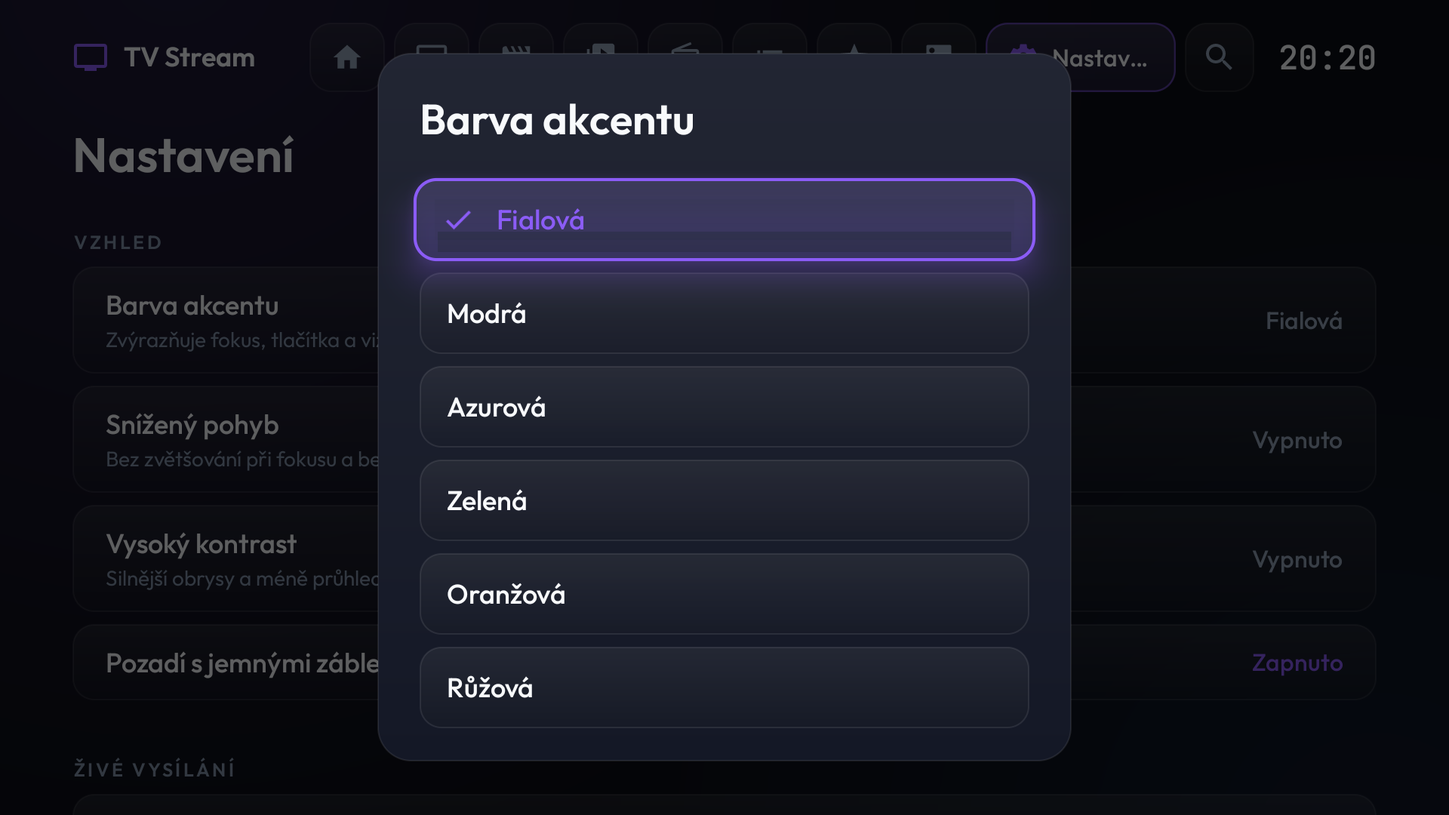
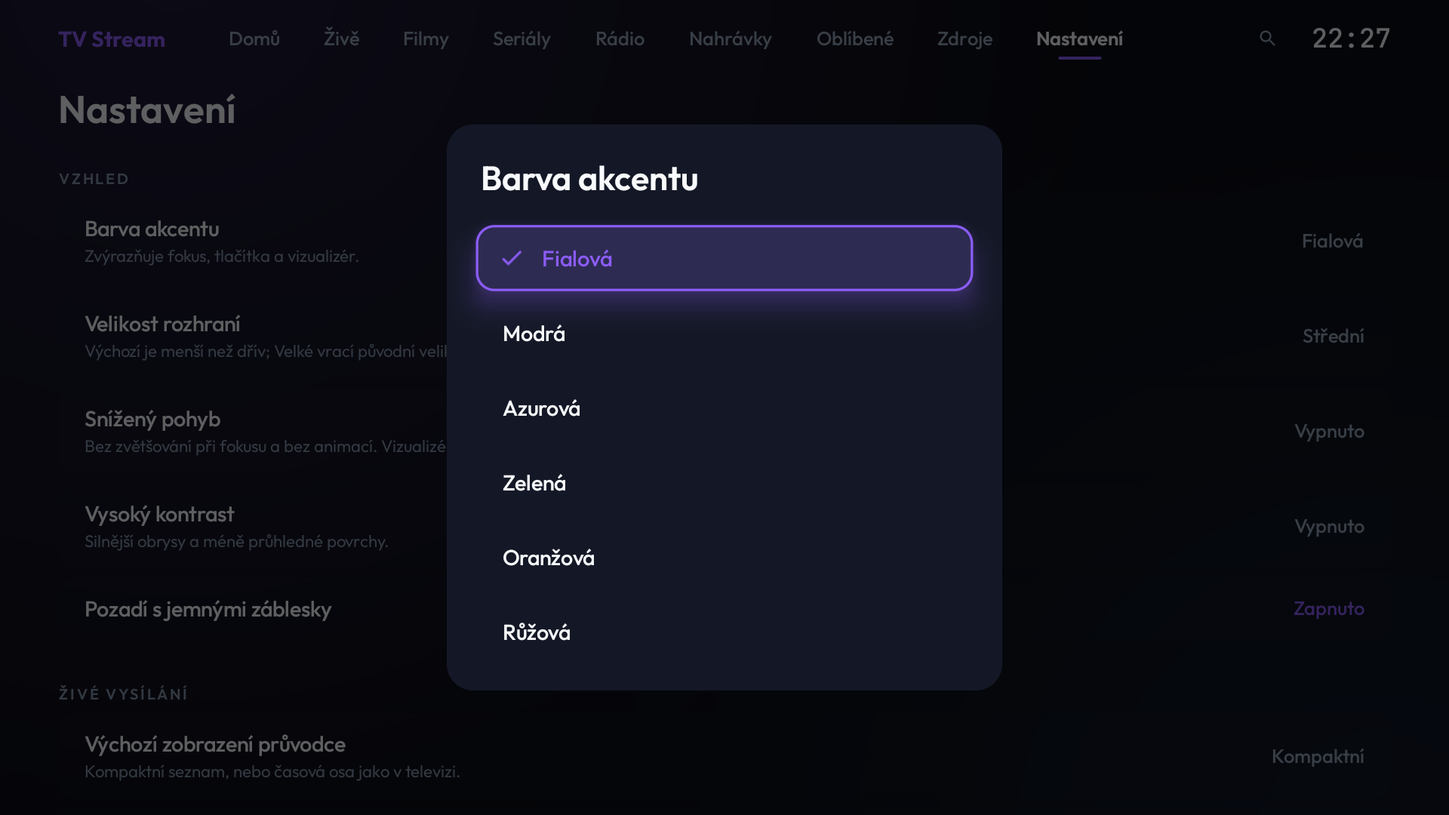
Minimalistický OTT redesign TV Stream, aktualizované docs a README

diff --git a/apps/stream/src/main/java/cz/plain/tvstream/MainActivity.kt b/apps/stream/src/main/java/cz/plain/tvstream/MainActivity.kt
@@ -67,13 +67,15 @@ class MainActivity : Activity() {
 
     private val tick = object : Runnable { override fun run() { clock.text = hhmm(System.currentTimeMillis()); main.postDelayed(this, 20_000) } }
 
+    override fun attachBaseContext(base: android.content.Context) { super.attachBaseContext(UiScale.wrap(base)) }
+
     override fun onCreate(savedInstanceState: Bundle?) {
         super.onCreate(savedInstanceState)
         Settings.init(this); UserData.init(this); Library.init(this); Playback.init(this)
 
         frame = FrameLayout(this).apply { background = AmbientBackground() }
         val column = LinearLayout(this).apply { orientation = LinearLayout.VERTICAL }
-        column.addView(buildBar(), LinearLayout.LayoutParams(MATCH_PARENT, dp(76)))
+        column.addView(buildBar(), LinearLayout.LayoutParams(MATCH_PARENT, dp(64)))
         content = FrameLayout(this).apply { clipChildren = false; clipToPadding = false }
         column.addView(content, LinearLayout.LayoutParams(MATCH_PARENT, 0, 1f))
         frame.addView(column, FrameLayout.LayoutParams(MATCH_PARENT, MATCH_PARENT))
@@ -132,11 +134,7 @@ class MainActivity : Activity() {
     private fun buildBar(): View {
         val bar = LinearLayout(this).apply { orientation = LinearLayout.HORIZONTAL; gravity = Gravity.CENTER_VERTICAL; setPadding(dp(Sp.XXXL), dp(Sp.S), dp(Sp.XXXL), dp(Sp.S)); clipChildren = false; clipToPadding = false }
         // značka aplikace
-        val mark = label(Typo.LABEL, Design.TEXT, 600).also { brand = it }.apply {
-            text = "TV Stream"; compoundDrawablePadding = dp(10)
-            setCompoundDrawablesRelativeWithIntrinsicBounds(R.drawable.ic_tv_w, 0, 0, 0)
-            compoundDrawableTintList = android.content.res.ColorStateList.valueOf(Design.accent)
-        }
+        val mark = label(Typo.LABEL, Design.accent, 700).also { brand = it }.apply { text = "TV Stream"; letterSpacing = 0.02f }
         bar.addView(mark)
         bar.addView(View(this), LinearLayout.LayoutParams(dp(36), 1))
         tabRow = LinearLayout(this).apply { orientation = LinearLayout.HORIZONTAL; gravity = Gravity.CENTER_VERTICAL; clipChildren = false; clipToPadding = false }
@@ -147,16 +145,16 @@ class MainActivity : Activity() {
             visibility = View.GONE; setPadding(dp(Sp.L), 0, dp(Sp.L), 0); gravity = Gravity.CENTER_VERTICAL; maxWidth = dp(190)
             compoundDrawablePadding = dp(Sp.S); setCompoundDrawablesRelativeWithIntrinsicBounds(R.drawable.ic_volume, 0, 0, 0)
             compoundDrawableTintList = android.content.res.ColorStateList.valueOf(Design.accent)
-            background = Design.glass(this@MainActivity, Design.R_CTRL); Design.focusable(this, Design.R_CTRL, Design.SCALE_CARD)
+            background = TabDrawable(this@MainActivity); Design.focusable(this, Design.R_CTRL, Design.SCALE_FIELD)
             setOnClickListener { startActivity(Intent(this@MainActivity, PlayerActivity::class.java)) }
         }
         bar.addView(miniPlayer, LinearLayout.LayoutParams(WRAP_CONTENT, dp(46)).apply { marginEnd = dp(14) })
         val search = icon(R.drawable.ic_search, 22, Design.TEXT2).apply {
-            setPadding(dp(11), dp(11), dp(11), dp(11)); background = Design.glass(this@MainActivity, Design.R_CTRL)
+            setPadding(dp(11), dp(11), dp(11), dp(11)); background = TabDrawable(this@MainActivity)
             Design.focusable(this, Design.R_CTRL); setOnClickListener { push(SearchScreen(this@MainActivity)) }
             describe("Hledat")
         }
-        bar.addView(search, LinearLayout.LayoutParams(dp(46), dp(46)).apply { marginEnd = dp(Sp.L) })
+        bar.addView(search, LinearLayout.LayoutParams(dp(40), dp(40)).apply { marginEnd = dp(Sp.L) })
         clock = label(Typo.TITLE, Design.TEXT, 500, mono = true)
         bar.addView(clock)
         return bar
@@ -172,7 +170,7 @@ class MainActivity : Activity() {
             for (t in visible) {
                 val v = t.view ?: makeTab(t).also { t.view = it }
                 (v.parent as? ViewGroup)?.removeView(v)
-                tabRow.addView(v, LinearLayout.LayoutParams(WRAP_CONTENT, dp(46)).apply { marginEnd = dp(Sp.XS) })
+                tabRow.addView(v, LinearLayout.LayoutParams(WRAP_CONTENT, dp(40)).apply { marginEnd = dp(Sp.XS) })
             }
             shownTabs = ids
             hadFocus?.view?.requestFocus()
@@ -186,17 +184,17 @@ class MainActivity : Activity() {
     }
 
     private fun makeTab(t: Tab): LinearLayout {
-        val ic = icon(t.icon, 22, Design.TEXT2)
-        val tx = label(Typo.BODY, Design.TEXT, 500).apply { visibility = View.GONE; setPadding(dp(Sp.S), 0, 0, 0) }
-        t.ic = ic; t.text = tx
+        // Jen text: aktivní karta je zvýrazněná a podtržená, zaostřená má jemné pozadí.
+        val tx = label(Typo.BODY, Design.TEXT2, 500).apply { text = t.label }
+        t.text = tx; t.ic = null
         val v = LinearLayout(this)
         v.apply {
-            orientation = LinearLayout.HORIZONTAL; gravity = Gravity.CENTER; setPadding(dp(Sp.M), 0, dp(Sp.M), 0)
-            background = Design.glass(this@MainActivity, Design.R_CTRL)
-            addView(ic); addView(tx); tx.text = t.label
+            orientation = LinearLayout.HORIZONTAL; gravity = Gravity.CENTER; setPadding(dp(Sp.L), 0, dp(Sp.L), 0)
+            background = TabDrawable(this@MainActivity)
+            addView(tx)
             describe(t.label)
             // Fokus na kartu přepne obsah (s krátkou prodlevou, ať rychlé procházení kartami nestaví obrazovky).
-            Design.focusable(this, Design.R_CTRL, Design.SCALE_CARD) { f ->
+            Design.focusable(this, Design.R_CTRL, Design.SCALE_FIELD) { f ->
                 styleTab(t, f)
                 if (f) {
                     switchRunnable?.let { main.removeCallbacks(it) }
@@ -215,9 +213,8 @@ class MainActivity : Activity() {
         val active = t.id == current && stack.isEmpty()
         t.view?.isActivated = active
         t.view?.describe(t.label, selected = active)
-        t.text?.visibility = if (active || focused) View.VISIBLE else View.GONE
-        t.text?.setTextColor(if (active) Design.TEXT else Design.TEXT2)
-        t.ic?.setColorFilter(if (active) Design.accent else if (focused) Design.TEXT else Design.TEXT2)
+        t.text?.setTextColor(if (active || focused) Design.TEXT else Design.TEXT2)
+        t.text?.typeface = Design.ui(this, if (active) 600 else 500)
     }
 
     /** Otevře Živě omezené na jeden zdroj. */
@@ -358,4 +355,36 @@ class MainActivity : Activity() {
             else -> tabs.firstOrNull { it.id == current }?.view?.requestFocus()   // z obsahu zpět na horní lištu
         }
     }
+}
+
+/** Podklad karty v horní liště: v klidu nic, aktivní karta je podtržená akcentem, zaostřená má jemné pozadí a akcentový rámeček. */
+class TabDrawable(ctx: android.content.Context) : android.graphics.drawable.Drawable() {
+    private val d = ctx.resources.displayMetrics.density
+    private val fill = android.graphics.Paint(android.graphics.Paint.ANTI_ALIAS_FLAG)
+    private val line = android.graphics.Paint(android.graphics.Paint.ANTI_ALIAS_FLAG).apply { style = android.graphics.Paint.Style.STROKE }
+    private val rect = android.graphics.RectF()
+    private var focused = false
+    private var active = false
+    override fun isStateful() = true
+    override fun onStateChange(state: IntArray): Boolean {
+        var f = false; var a = false
+        for (s in state) when (s) { android.R.attr.state_focused -> f = true; android.R.attr.state_activated, android.R.attr.state_selected -> a = true }
+        if (f == focused && a == active) return false
+        focused = f; active = a; invalidateSelf(); return true
+    }
+    override fun draw(c: android.graphics.Canvas) {
+        val r = Design.R_CTRL * d
+        if (focused) {
+            fill.color = 0xFF1E2438.toInt()
+            rect.set(bounds); rect.inset(d, d); c.drawRoundRect(rect, r, r, fill)
+            line.color = Design.accent; line.strokeWidth = 2f * d; rect.set(bounds); rect.inset(d, d); c.drawRoundRect(rect, r, r, line)
+        } else if (active) {
+            fill.color = Design.accent
+            val w = bounds.width() * 0.34f
+            c.drawRoundRect(bounds.exactCenterX() - w / 2, bounds.bottom - 5 * d, bounds.exactCenterX() + w / 2, bounds.bottom - 2.5f * d, 2 * d, 2 * d, fill)
+        }
+    }
+    override fun setAlpha(alpha: Int) {}
+    override fun setColorFilter(cf: android.graphics.ColorFilter?) {}
+    @Deprecated("Deprecated in Java") override fun getOpacity() = android.graphics.PixelFormat.TRANSLUCENT
 }

diff --git a/apps/stream/src/main/java/cz/plain/tvstream/LiveScreen.kt b/apps/stream/src/main/java/cz/plain/tvstream/LiveScreen.kt
@@ -27,7 +27,7 @@ fun Context.chip(text: String, icon: Int = 0, onClick: () -> Unit): TextView = l
     setPadding(dp(14), 0, dp(Sp.L), 0)
     compoundDrawablePadding = dp(Sp.S)
     background = Design.glass(this@chip, Design.R_CTRL)
-    if (icon != 0) { setCompoundDrawablesRelativeWithIntrinsicBounds(icon, 0, 0, 0); compoundDrawableTintList = android.content.res.ColorStateList.valueOf(Design.TEXT2) }
+    // Minimalisticky bez ikon: čip je text.
     Design.focusable(this, Design.R_CTRL, Design.SCALE_CHIP)
     setOnClickListener { onClick() }
 }
@@ -116,7 +116,7 @@ class LiveScreen(act: MainActivity, private val kind: ChannelKind) : Screen(act)
         bodyRef = body
         col.addView(timeline.view, LinearLayout.LayoutParams(MATCH_PARENT, 0, 1f))
 
-        val railBox = LinearLayout(c).apply { orientation = LinearLayout.VERTICAL; background = Design.glass(c, Design.R_LG, solid = true); setPadding(c.dp(Sp.S), c.dp(14), c.dp(Sp.S), c.dp(Sp.S)); clipChildren = true; clipToPadding = false }
+        val railBox = LinearLayout(c).apply { orientation = LinearLayout.VERTICAL; setPadding(c.dp(Sp.S), c.dp(Sp.S), c.dp(Sp.S), c.dp(Sp.S)); clipChildren = true; clipToPadding = false }
         railBox.addView(c.caption("Skupiny").apply { setPadding(c.dp(Sp.M), 0, 0, c.dp(Sp.S)) })
         railList.layoutManager = FocusLayoutManager(c, LinearLayoutManager.VERTICAL, 0.4f)
         railList.adapter = railAdapter; railList.itemAnimator = null; railList.overScrollMode = View.OVER_SCROLL_NEVER
@@ -139,8 +139,8 @@ class LiveScreen(act: MainActivity, private val kind: ChannelKind) : Screen(act)
         body.addView(detail.view, LinearLayout.LayoutParams(c.dp(252), MATCH_PARENT))
 
         // nápověda ovládání (jemná, bez velkých tlačítek)
-        col.addView(hintsCompact, LinearLayout.LayoutParams(MATCH_PARENT, WRAP_CONTENT).apply { setMargins(c.dp(Sp.XXXL), c.dp(10), c.dp(Sp.XXXL), c.dp(18)) })
-        col.addView(hintsTimeline, LinearLayout.LayoutParams(MATCH_PARENT, WRAP_CONTENT).apply { setMargins(c.dp(Sp.XXXL), c.dp(10), c.dp(Sp.XXXL), c.dp(18)) })
+        // Nápověda ovládání se záměrně nezobrazuje: rozhraní je minimalistické a ovládání je pro D-pad samozřejmé.
+        col.addView(hintsCompact.apply { visibility = View.GONE }); col.addView(hintsTimeline.apply { visibility = View.GONE })
         updateChips()
         applyMode()
     }
@@ -148,8 +148,6 @@ class LiveScreen(act: MainActivity, private val kind: ChannelKind) : Screen(act)
     private fun applyMode() {
         val tl = mode == "timeline"
         bodyRef.visibility = if (tl) View.GONE else View.VISIBLE
-        hintsCompact.visibility = if (tl) View.GONE else View.VISIBLE
-        hintsTimeline.visibility = if (tl) View.VISIBLE else View.GONE
         modeChip.visibility = if (isRadio) View.GONE else View.VISIBLE
         timeline.view.visibility = if (tl) View.VISIBLE else View.GONE
         updateChips()
@@ -385,7 +383,7 @@ class LiveScreen(act: MainActivity, private val kind: ChannelKind) : Screen(act)
 
     // ---------------------------------------------------------------- řádek kanálu
 
-    private inner class ChannelRow(val c: Context) : ListRow(c, heightDp = 72) {
+    private inner class ChannelRow(val c: Context) : ListRow(c, heightDp = 60) {
         private val number = c.label(Typo.SMALL, Design.MUTED, 500, mono = true).apply { gravity = Gravity.END }
         private val logo = LogoTile(c, 13f)
         private val fav = c.icon(R.drawable.ic_star, 16, Design.accent)
@@ -451,7 +449,7 @@ class LiveScreen(act: MainActivity, private val kind: ChannelKind) : Screen(act)
 
         val view = LinearLayout(c).apply {
             orientation = LinearLayout.VERTICAL
-            background = Design.glass(c, Design.R_LG, solid = true)
+            background = Design.glass(c, Design.R_LG)
             setPadding(c.dp(22), c.dp(20), c.dp(22), c.dp(14))
             addView(logo, LinearLayout.LayoutParams(c.dp(104), c.dp(62)))
             addView(name, LinearLayout.LayoutParams(MATCH_PARENT, WRAP_CONTENT).apply { topMargin = c.dp(Sp.M) })

diff --git a/apps/stream/src/main/java/cz/plain/tvstream/HomeScreen.kt b/apps/stream/src/main/java/cz/plain/tvstream/HomeScreen.kt
@@ -51,10 +51,10 @@ class HomeScreen(act: MainActivity) : Screen(act) {
         head.addView(sub, LinearLayout.LayoutParams(WRAP_CONTENT, WRAP_CONTENT).apply { topMargin = c.dp(6) })
         content.addView(head)
         run {
-            hero.background = Design.glass(c, Design.R_LG, solid = true); hero.clipToOutline = true
+            hero.background = Design.glass(c, Design.R_LG); hero.clipToOutline = true
             hero.outlineProvider = object : android.view.ViewOutlineProvider() { override fun getOutline(v: View, o: android.graphics.Outline) { o.setRoundRect(0, 0, v.width, v.height, c.dpf(Design.R_LG)) } }
             val row = LinearLayout(c).apply { orientation = LinearLayout.HORIZONTAL }
-            val txt = LinearLayout(c).apply { orientation = LinearLayout.VERTICAL; setPadding(c.dp(Sp.XXL), c.dp(Sp.XL), c.dp(Sp.XXL), c.dp(Sp.XL)); gravity = Gravity.CENTER_VERTICAL }
+            val txt = LinearLayout(c).apply { orientation = LinearLayout.VERTICAL; setPadding(0, c.dp(Sp.XL), c.dp(Sp.XXL), c.dp(Sp.XL)); gravity = Gravity.CENTER_VERTICAL }
             txt.addView(c.caption("POKRAČOVAT VE SLEDOVÁNÍ"))
             txt.addView(heroTitle, LinearLayout.LayoutParams(MATCH_PARENT, WRAP_CONTENT).apply { topMargin = c.dp(Sp.S) })
             txt.addView(heroSub, LinearLayout.LayoutParams(WRAP_CONTENT, WRAP_CONTENT).apply { topMargin = c.dp(6) })
@@ -116,11 +116,9 @@ class HomeScreen(act: MainActivity) : Screen(act) {
             if (!h.poster.isNullOrEmpty()) Logos.load(h.poster, heroImage, client, 640) {
                 heroImage.scaleType = android.widget.ImageView.ScaleType.CENTER_CROP; heroImage.setPadding(0, 0, 0, 0); heroImage.clearColorFilter(); heroImage.background = null; heroScrim.visibility = View.VISIBLE
             } else heroImage.setImageDrawable(null)
+            // Minimalisticky: bez plakátu je banner jen text, bez náhradní ikony.
             heroScrim.visibility = View.GONE
-            heroImage.scaleType = android.widget.ImageView.ScaleType.CENTER_INSIDE; heroImage.setPadding(c.dp(140), c.dp(50), c.dp(140), c.dp(50))
-            heroImage.setImageResource(if (h.key.startsWith("ep:")) R.drawable.ic_series else R.drawable.ic_movie)
-            heroImage.setColorFilter(Design.withAlpha(Design.accent, 0.55f))
-            heroImage.background = android.graphics.drawable.GradientDrawable(android.graphics.drawable.GradientDrawable.Orientation.LEFT_RIGHT, intArrayOf(Design.withAlpha(Design.accent, 0.0f), Design.withAlpha(Design.accent, 0.22f)))
+            heroImage.setImageDrawable(null); heroImage.background = null; heroImage.clearColorFilter()
         }
         cont.submit(conts.drop(if (heroItem != null) 1 else 0))
         val recentItems = UserData.recent().mapNotNull { Library.find(it.key) }.take(20)

diff --git a/apps/stream/src/main/java/cz/plain/tvstream/Design.kt b/apps/stream/src/main/java/cz/plain/tvstream/Design.kt
@@ -34,7 +34,7 @@ object Design {
     // ---------------------------------------------------------------- tokeny
     val BG = 0xFF0B0D14.toInt()
     val ELEVATED = 0xFF101420.toInt()
-    val SURFACE = argb(0.30f, 22, 26, 38)
+    val SURFACE = argb(0.16f, 22, 26, 38)
     /** Nepropustný povrch pro velké textové plochy (průhlednost zhoršuje čitelnost). */
     val SURFACE_SOLID = 0xFF141826.toInt()
     val FOCUS_SURFACE = argb(0.60f, 38, 44, 64)
@@ -166,6 +166,17 @@ object Design {
     }
 }
 
+/** Velikost rozhraní: obalí kontext se změněnou hustotou, takže dp i sp se zmenší (nebo zvětší) všude stejně. */
+object UiScale {
+    fun wrap(base: Context): Context {
+        val s = try { base.getSharedPreferences("settings", Context.MODE_PRIVATE).getFloat("uiScale", Settings.DEFAULT_SCALE) } catch (_: Exception) { Settings.DEFAULT_SCALE }
+        if (s == 1f) return base
+        val c = android.content.res.Configuration(base.resources.configuration)
+        c.densityDpi = (c.densityDpi * s).toInt().coerceAtLeast(120)
+        return base.createConfigurationContext(c)
+    }
+}
+
 /**
  * Typografická škála (sp). Výjimky: texty vykreslené přímo na Canvas v časové ose EPG a monogramy log
  * (velikost se odvozuje od velikosti dlaždice).
@@ -233,22 +244,21 @@ class GlassDrawable(ctx: Context, radiusDp: Float, private val solid: Boolean) :
         fill.color = when {
             // Nepropustná plocha: stín fokusu (záře) jinak prosvítá průhlednou výplní a kreslí uvnitř prvku tmavý pruh.
             focused -> Design.blend(0xFF1E2438.toInt(), accent, 0.14f)
-            active -> Design.blend(base, accent, 0.22f)
+            active -> Design.blend(base, accent, 0.20f)
             else -> base
         }
-        val stroke = when { focused -> 2f * density; active -> 1.2f * density; else -> density }
+        // Minimalisticky: v klidu bez obrysu, rámeček jen u zaostřeného prvku (a ve vysokém kontrastu).
+        val stroke = when { focused -> 2f * density; hc -> density; else -> 0f }
         line.strokeWidth = stroke
         line.color = when {
             focused -> accent
-            active -> Design.withAlpha(accent, 0.6f)
             hc -> Design.withAlpha(Color.WHITE, 0.35f)
-            else -> Design.HAIRLINE
+            else -> Color.TRANSPARENT
         }
         val half = stroke / 2f
         rect.set(bounds.left + half, bounds.top + half, bounds.right - half, bounds.bottom - half)
         c.drawRoundRect(rect, r, r, fill)
-        if (!hc) c.drawRoundRect(rect, r, r, gloss)
-        c.drawRoundRect(rect, r, r, line)
+        if (stroke > 0f) c.drawRoundRect(rect, r, r, line)
     }
 
     override fun setAlpha(alpha: Int) { fill.alpha = alpha }

diff --git a/apps/stream/src/main/java/cz/plain/tvstream/SettingsScreen.kt b/apps/stream/src/main/java/cz/plain/tvstream/SettingsScreen.kt
@@ -34,6 +34,9 @@ class SettingsScreen(act: MainActivity) : Screen(act) {
                 MenuEntry(n, if (i == Settings.accentIndex) R.drawable.ic_check else 0, selected = i == Settings.accentIndex) { Settings.accentIndex = i; Design.apply(c); c.recreate() }
             })
         }
+        row("Velikost rozhraní", "Výchozí je menší než dřív; Velké vrací původní velikost.", { scaleName(Settings.uiScale) }) {
+            c.showMenu("Velikost rozhraní", null, listOf(0.7f, 0.8f, 1.0f).map { s -> MenuEntry(scaleName(s), if (Settings.uiScale == s) R.drawable.ic_check else 0, selected = Settings.uiScale == s) { Settings.uiScale = s; c.recreate() } })
+        }
         toggle("Snížený pohyb", "Bez zvětšování při fokusu a bez animací. Vizualizér se zastaví.", { Settings.reducedMotion }) { Settings.reducedMotion = it; Design.apply(c) }
         toggle("Vysoký kontrast", "Silnější obrysy a méně průhledné povrchy.", { Settings.highContrast }) { Settings.highContrast = it; Design.apply(c); c.recreate() }
         toggle("Pozadí s jemnými záblesky", null, { Settings.ambient }) { Settings.ambient = it; Design.apply(c); c.recreate() }
@@ -108,6 +111,7 @@ class SettingsScreen(act: MainActivity) : Screen(act) {
         return valueView
     }
 
+    private fun scaleName(s: Float) = when { s <= 0.7f -> "Malé"; s < 1f -> "Střední"; else -> "Velké" }
     private fun vizName(id: String) = when (id) { "orb" -> "Zářící koule"; "bars" -> "Spektrum"; "wave" -> "Vlna"; else -> "Vypnuto" }
     private fun qualityName(id: String) = when (id) { "high" -> "Vysoká"; "balanced" -> "Vyvážená"; "low" -> "Nízká"; "off" -> "Vypnuto"; else -> "Automaticky" }
     private fun aspectName(id: String) = when (id) { "fill" -> "Vyplnit"; "zoom" -> "Přiblížit"; else -> "Přizpůsobit" }

diff --git a/apps/stream/src/main/java/cz/plain/tvstream/Settings.kt b/apps/stream/src/main/java/cz/plain/tvstream/Settings.kt
@@ -5,6 +5,8 @@ import android.content.SharedPreferences
 
 /** Uživatelská nastavení (jedno místo pravdy). Hodnoty se čtou při každém použití, takže změna platí hned. */
 object Settings {
+    const val DEFAULT_SCALE = 0.8f
+
     private lateinit var sp: SharedPreferences
 
     fun init(ctx: Context) {
@@ -17,6 +19,8 @@ object Settings {
     private fun i(k: String, d: Int) = sp.getInt(k, d)
 
     // Vzhled
+    /** Velikost rozhraní: násobek hustoty obrazovky (0,8 odpovídá obvyklým 240 dpi televizí; box hlásí 320 dpi, takže vše bylo o třetinu větší). */
+    var uiScale: Float get() = sp.getFloat("uiScale", DEFAULT_SCALE); set(v) = sp.edit().putFloat("uiScale", v).apply()
     var accentIndex: Int get() = i("accent", 0); set(v) = sp.edit().putInt("accent", v).apply()
     var reducedMotion: Boolean get() = b("reducedMotion", false); set(v) = sp.edit().putBoolean("reducedMotion", v).apply()
     var highContrast: Boolean get() = b("highContrast", false); set(v) = sp.edit().putBoolean("highContrast", v).apply()

diff --git a/apps/stream/src/main/java/cz/plain/tvstream/Components.kt b/apps/stream/src/main/java/cz/plain/tvstream/Components.kt
@@ -286,7 +286,7 @@ open class ListRow(ctx: Context, heightDp: Int = 0, padV: Int = Sp.S) : LinearLa
         column.addView(barView, LayoutParams(MATCH_PARENT, ctx.dp(3)).apply { topMargin = ctx.dp(6) })
         addView(column, LayoutParams(0, WRAP_CONTENT, 1f).apply { marginStart = ctx.dp(Sp.M) })
         addView(badgeView, LayoutParams(WRAP_CONTENT, WRAP_CONTENT).apply { marginStart = ctx.dp(Sp.S) })
-        layoutParams = RecyclerView.LayoutParams(MATCH_PARENT, if (heightDp > 0) ctx.dp(heightDp) else WRAP_CONTENT).apply { bottomMargin = ctx.dp(Sp.S) }
+        layoutParams = RecyclerView.LayoutParams(MATCH_PARENT, if (heightDp > 0) ctx.dp(heightDp) else WRAP_CONTENT).apply { bottomMargin = ctx.dp(Sp.XS) }
         Design.focusable(this, Design.R_CTRL, Design.SCALE_ROW)
     }
 

diff --git a/apps/stream/src/main/java/cz/plain/tvstream/PlayerActivity.kt b/apps/stream/src/main/java/cz/plain/tvstream/PlayerActivity.kt
@@ -64,6 +64,8 @@ class PlayerActivity : Activity() {
     private val dimRun = Runnable { setDim(true) }
     private val shiftRun = object : Runnable { override fun run() { radio.shiftRandom(); main.postDelayed(this, 60_000) } }
 
+    override fun attachBaseContext(base: android.content.Context) { super.attachBaseContext(UiScale.wrap(base)) }
+
     override fun onCreate(savedInstanceState: Bundle?) {
         super.onCreate(savedInstanceState)
         window.addFlags(WindowManager.LayoutParams.FLAG_KEEP_SCREEN_ON)

diff --git a/apps/stream/src/main/java/cz/plain/tvstream/SourcesScreen.kt b/apps/stream/src/main/java/cz/plain/tvstream/SourcesScreen.kt
@@ -41,7 +41,6 @@ class SourcesScreen(act: MainActivity) : Screen(act) {
             setPadding(c.dp(Sp.XXXL), c.dp(10), c.dp(Sp.XXXL), 0); setLineSpacing(0f, 1.2f)
         })
         box.addView(c.spacer())
-        box.addView(c.hintBar("OK" to "Otevřít", "Podržet OK" to "Správa zdroje", "◀ ▶" to "Procházet"), LinearLayout.LayoutParams(MATCH_PARENT, WRAP_CONTENT).apply { setMargins(c.dp(Sp.XXXL), 0, c.dp(Sp.XXXL), c.dp(18)) })
     }
 
     override fun onShow() = reload()

diff --git a/apps/stream/src/main/java/cz/plain/tvstream/EditSourceActivity.kt b/apps/stream/src/main/java/cz/plain/tvstream/EditSourceActivity.kt
@@ -42,6 +42,8 @@ class EditSourceActivity : Activity() {
     private lateinit var statusMsg: TextView
     private lateinit var primary: TextView
 
+    override fun attachBaseContext(base: android.content.Context) { super.attachBaseContext(UiScale.wrap(base)) }
+
     override fun onCreate(savedInstanceState: Bundle?) {
         super.onCreate(savedInstanceState)
         Settings.init(this); Library.init(this)

diff --git a/apps/stream/src/main/java/cz/plain/tvstream/WebSetupActivity.kt b/apps/stream/src/main/java/cz/plain/tvstream/WebSetupActivity.kt
@@ -33,6 +33,8 @@ class WebSetupActivity : Activity() {
     private lateinit var log: LinearLayout
     private val events = ArrayDeque<String>()
 
+    override fun attachBaseContext(base: android.content.Context) { super.attachBaseContext(UiScale.wrap(base)) }
+
     override fun onCreate(savedInstanceState: Bundle?) {
         super.onCreate(savedInstanceState)
         Settings.init(this); Library.init(this)

diff --git a/apps/docs/VISUAL_REVIEW.md b/apps/docs/VISUAL_REVIEW.md
@@ -32,14 +32,14 @@ Závažnost: **C**ritical (nepoužitelné / nefunkční) · **M**ajor (zřejmě 
 | M | Časová osa: datum se překrývalo s popiskem první půlhodiny, čas přetékal do pásu s mřížkou | datum má vlastní řádek, popisky půlhodin pod ním | [před](screenshots/1080_live_timeline_before.png) → [po](screenshots/1080_live_timeline_focus.png) |
 | M | Rádio mělo přepínač „Časová osa“ a zobrazilo prázdnou časovou osu | časová osa jen pro televizi; rádio vždy kompaktně | [před](screenshots/1080_radio_timeline-bug_before.png) → [po](screenshots/1080_radio_compact.png) |
 | M | Radio přehrávač: čtvercový obal mimo střed orbu, paprsky přesahovaly do textu | kruhový obal přesně uprostřed orbu (střed se bere ze skutečné polohy), paprsky kratší, mezera před textem | [před](screenshots/1080_radio_player_orb_before.png) → [po](screenshots/1080_radio_player_orb.png) |
-| M | Seriál: dlouhý popis zabral 7 řádků a epizody vyjely z obrazovky | popis max. 3 řádky, epizody vidět hned | po |
-| M | Chyba sítě ve zdroji ukazovala `unexpected end of stream on http://…` včetně adresy | srozumitelná věta + `Redact.url` na všech chybových textech (test) | po |
+| M | Seriál: dlouhý popis zabral 7 řádků a epizody vyjely z obrazovky | popis max. 3 řádky, epizody vidět hned | [po](screenshots/1080_series_episodes.png) |
+| M | Chyba sítě ve zdroji ukazovala `unexpected end of stream on http://…` včetně adresy | srozumitelná věta + `Redact.url` na všech chybových textech (test) | [po](screenshots/1080_sources_error.png) |
 | I | Po návratu z přehrávače skočil fokus na horní lištu | hlavní okno si pamatuje zaostřený prvek a po návratu ho vrátí (ověřeno: stejný prvek před i po) | – |
-| I | U karty zdroje a v hledání svítila v liště nesouvisející karta jako „aktivní“ | pod otevřeným detailem/hledáním není žádná karta aktivní | po |
-| I | Záře fokusu u plakátu obklopovala i text pod ním | obrys jen kolem plakátu | po |
+| I | U karty zdroje a v hledání svítila v liště nesouvisející karta jako „aktivní“ | pod otevřeným detailem/hledáním není žádná karta aktivní | [po](screenshots/1080_search_empty.png) |
+| I | Záře fokusu u plakátu obklopovala i text pod ním | obrys jen kolem plakátu | [po](screenshots/1080_movies_focus.png) |
 | I | Info lišta přehrávače: bez programu se název kanálu opakoval dvakrát; čitelnost nad videem | nahoře číslo + zdroj, scrim silnější | – |
 | I | Radio bez loga: šedá deska, na rádiu se točil spinner přes rádio vrstvu | akcentový kruh s monogramem, spinner jen nad videem | [po](screenshots/1080_radio_player_bars.png) |
-| I | Film s délkou „1 min“ (poskytovatel posílá nesmysl) | délky < 5 min se nezobrazují | po |
+| I | Film s délkou „1 min“ (poskytovatel posílá nesmysl) | délky < 5 min se nezobrazují | [po](screenshots/1080_movie_detail.png) |
 | I | Kompaktní Živě: nadpisy skupin a názvy kanálů příliš zkrácené, počet zmáčknutý vedle názvu | počet pod názvem skupiny, sloupce přerozdělené (204 / střed / 252 dp) | [po](screenshots/1080_live_compact.png) |
 | P | Kontrast drobného textu (`MUTED`) 3,2–4,1:1 | `#8394AA`, ≥ 4,4:1 na všech površích (viz DESIGN_SYSTEM.md) | – |
 | P | Různá zaoblení (12/14/16 dp) u podobných prvků | `R_CTRL 14` pro ovladatelné prvky | – |
@@ -86,3 +86,6 @@ Skóre vychází jen z pozorování popsaných výše (screenshoty 1080p, část
 - Žádný čtečkový nástroj (TalkBack) ani kontrola velkého systémového písma.
 - Poskytovatelé v testu nemají EPG pro většinu kanálů, proto jsou časové osy bez pořadů; vzhled bloků pořadů je ověřen jen v kódu a unit testech geometrie (`TimelineTest`).
 - Výkon vizualizéru jsem neměřil přesně (jen průběžně `top` ~85–90 % jednoho jádra aplikace při přehrávání).
+
+## Minimalistický redesign (v2)
+Po zpětné vazbě („moc velký a moc bloated, spíš minimalistické jako OTT“): měřítko 0,8×, textová horní lišta s podtržením, ploché povrchy bez obrysů, bez lišt s nápovědou, textové čipy, jednodušší hero. Znovu prohlédnuto na zařízení (1080p): Home, Živě, Filmy, Rádio (seznam), Zdroje, Nastavení; screenshoty v `screenshots/1080_*` jsou nové. Detail seriálu, přehrávač a 720p po redesignu znovu neověřeny.
